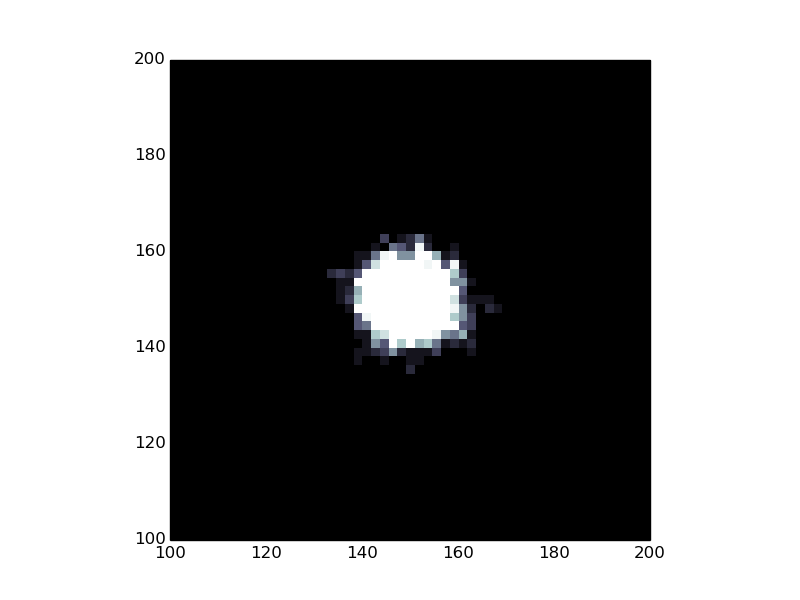
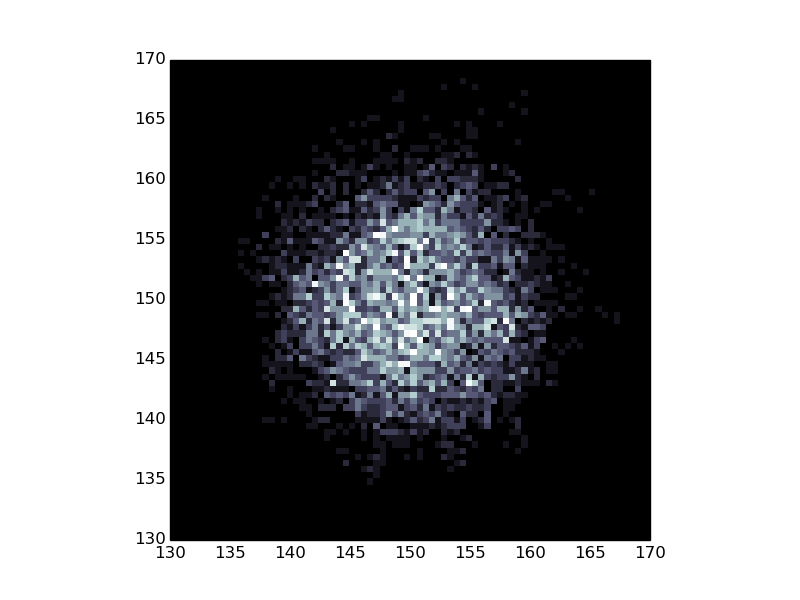
Histograms for the same setups with more precision

diff --git a/main.py b/main.py
@@ -152,29 +152,29 @@ if __name__ == '__main__':
     runner.set_a_ball_mass(a_ball_mass)
 
     # Membrane size
-    sheet_radius    = [50 + it for it in range(30)]
+    sheet_radius    = [55 + it for it in range(11)]
 
     # Declare score paths
     ball_file = 'data/single_ball.dat'
     memb_file = 'data/membrane_pos.dat'
 
     # Prepare score containers
-    balls_z     = []
+    ball_pos    = []
     membranes_z = []
 
     # Final settings
-    runner.set_number_of_iterations(int(5e5))
-    runner.set_number_of_cores(4)
+    runner.set_number_of_iterations(int(1e6))
+    runner.set_number_of_cores(8)
 
     for val in sheet_radius:
         print 'current value is now set to: ', val
         # Set value to check and check
         runner.set_sheet_radius(val)
         runner.run_it(template_file)
-        # Read ball positions
+
+        # Write ball positions
         ball_score = an.read_pos(ball_file)
-        bz = [pos[2] for pos in ball_score]
-        balls_z.append(bz)
+        ball_pos.append(ball_score)
 
         # Membrane as well
         memb_score = an.read_pos(memb_file)
@@ -183,11 +183,11 @@ if __name__ == '__main__':
 
         # Save histogram after each run
         savepath = 'plots/membrane_radius_histograms/radius_{}.png'.format(val)
-        an.make_position_histogram(ball_file, limits=[100, 200], savepath=savepath)
+        an.make_position_histogram(ball_file, limits=[130, 170], savepath=savepath)
 
         # Resave every iteration (you can see those live with ipython)
         with open('data/ball.pickle', 'wb') as fout:
-            pickle.dump(balls_z, fout)
+            pickle.dump(ball_pos, fout)
         with open('data/memb.pickle', 'wb') as fout:
             pickle.dump(membranes_z, fout)
 
